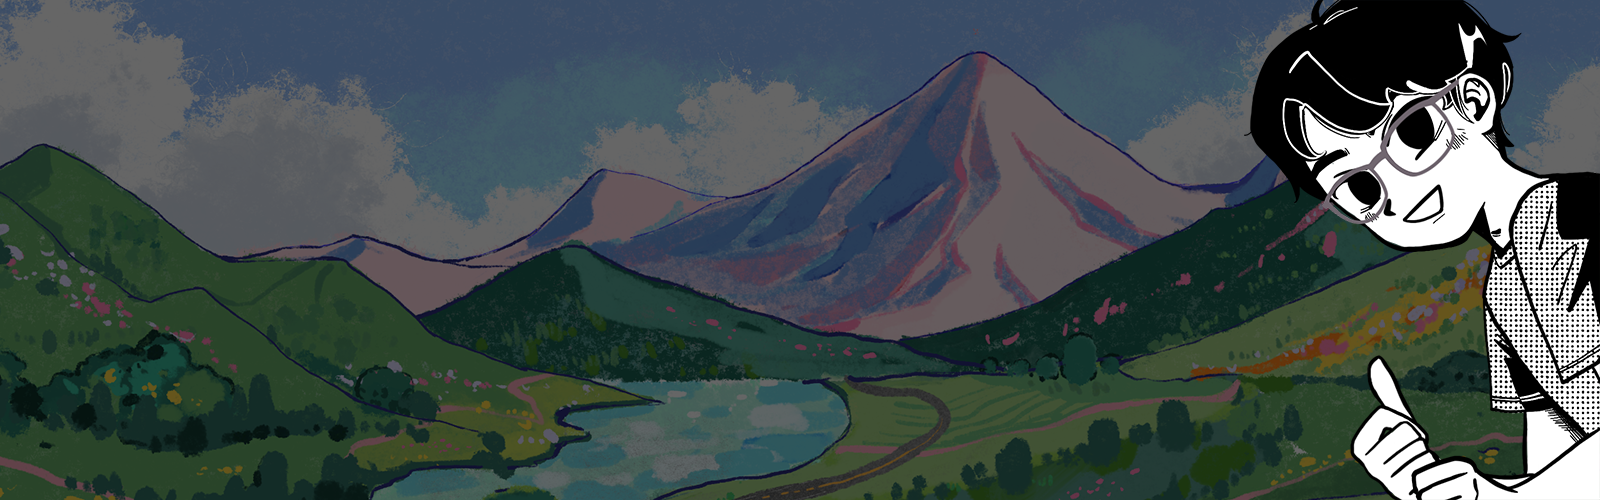
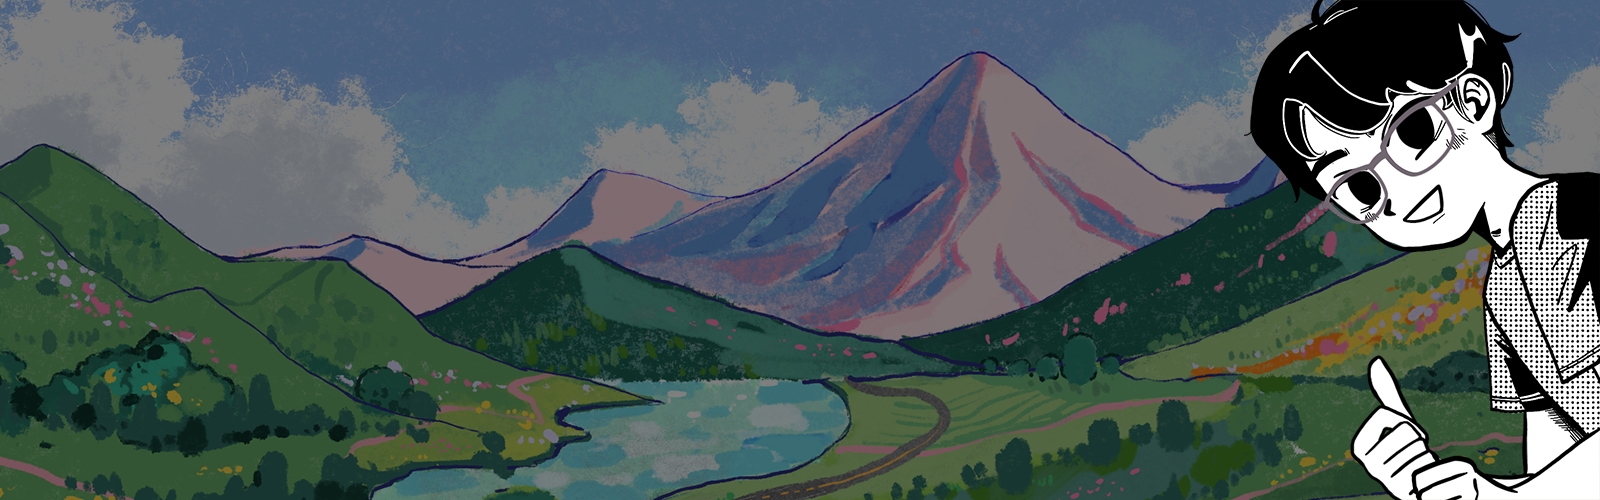
feat: unify Hero overlay + visual tweaks
- Unify hero overlay: homepage & film detail now use var(--color-hero-overlay)
  (gradients fade into page bg, consistent with games list page)
- Film detail: Hero→content gap pt-16 → pt-20 (80px, more breathing room)
- Homepage: bio text area pt-32 → pt-28 (112px, slight upward shift)
- Homepage: updated hero.png background image

diff --git a/CONTEXT.md b/CONTEXT.md
@@ -173,6 +173,8 @@
 | 131 | 游戏 videoId 批量填充 | `games.ts` 为 6 个游戏新增 `videoId` 字段：Scholar's Side Quest（`abhE2JtW4wA`）、Shepherds（`uvYppzaDpXI`）、The Camera（`ovuKyvzXgRA`）、Baihua Pavilion（`H7Mk_T36NtM`）、Greedy Roots（`NyWoQLDNY8E`）、Elliot Fig（`8c-GsZeBqwU`）；同步补全各自 `links.youtube` 字段；On the Road / Stars Chat 无视频保持空；另核对确认 Echo Quest / Elemental Realm / Aid Master 三项原有值无误 |
 | 132 | 游戏列表页 Hero 图集成 | 存放 `public/images/games/games-hero.png`（1.3 MB，16:9），更新 `src/pages/[...lang]/games/index.astro` 的 `<HeroSection>` 组件传入 `backgroundImage` 参数；Hero 高度保持全站统一 50vh |
 | 133 | 游戏列表页 Hero 与导航栏改进 | 新增 `transparentNav` prop 使 Navbar 内嵌在 Hero 区域（与电影详情页、主页保持一致）；更新 i18n：`games.title` '游戏项目' → '游戏作品'；副标题改为 '玩法 / 战斗 / 关卡设计'（更精准的学科表述）；英文简化 'Game Projects' → 'Games' |
+| 134 | 全站 Hero 遮罩统一 | 电影详情页遮罩从硬编码 `linear-gradient(rgba...0.65)` 改为 `var(--color-hero-overlay)`；主页遮罩从 `bg-gradient-to-t from-black/30` 改为 `var(--color-hero-overlay)`；全站 Hero 底部统一渐变过渡到背景色（游戏页/主页/电影页一致） |
+| 135 | 视觉微调 | 电影详情页 Hero → 正文间距 `pt-16` → `pt-20`（80px）；主页 Hero 正文区 `pt-32` → `pt-28`（112px）微上移；主页 hero.png 更新（路径不变，重新 build 生效） |
 
 ---
 
